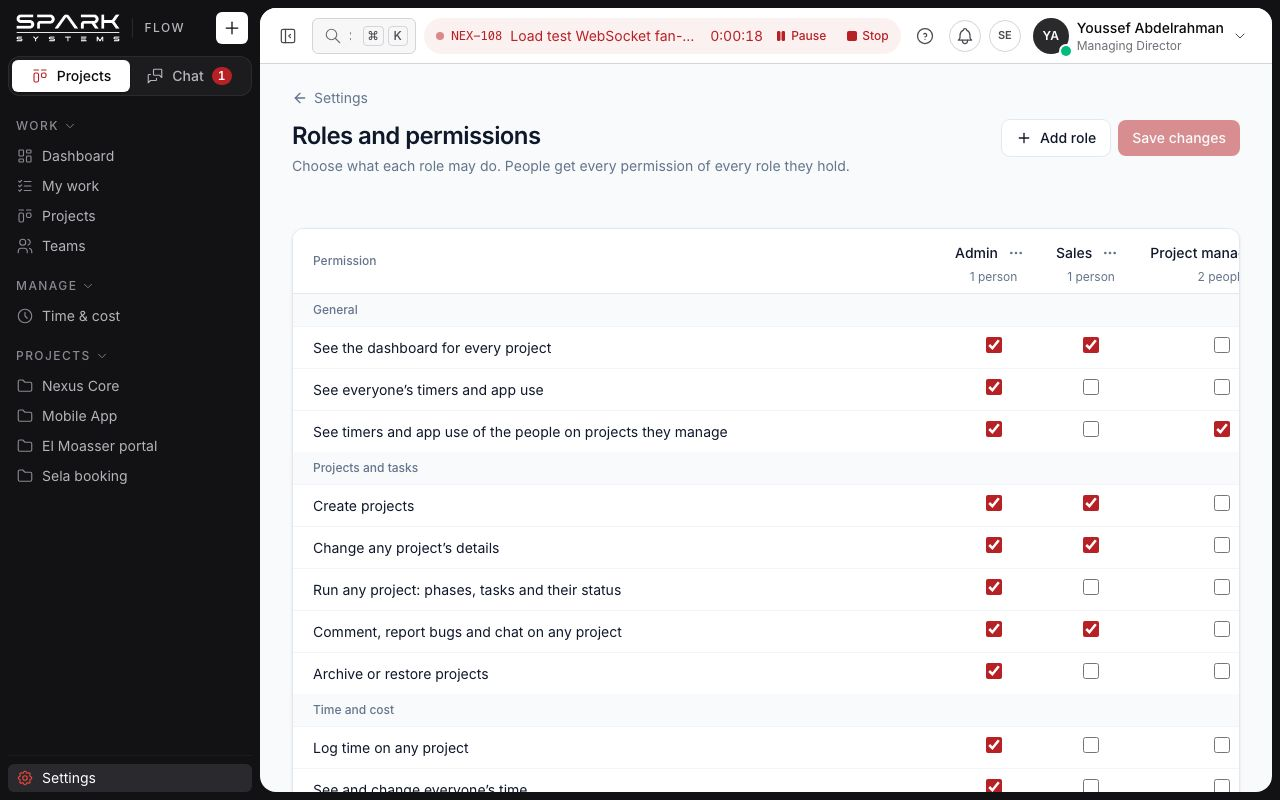
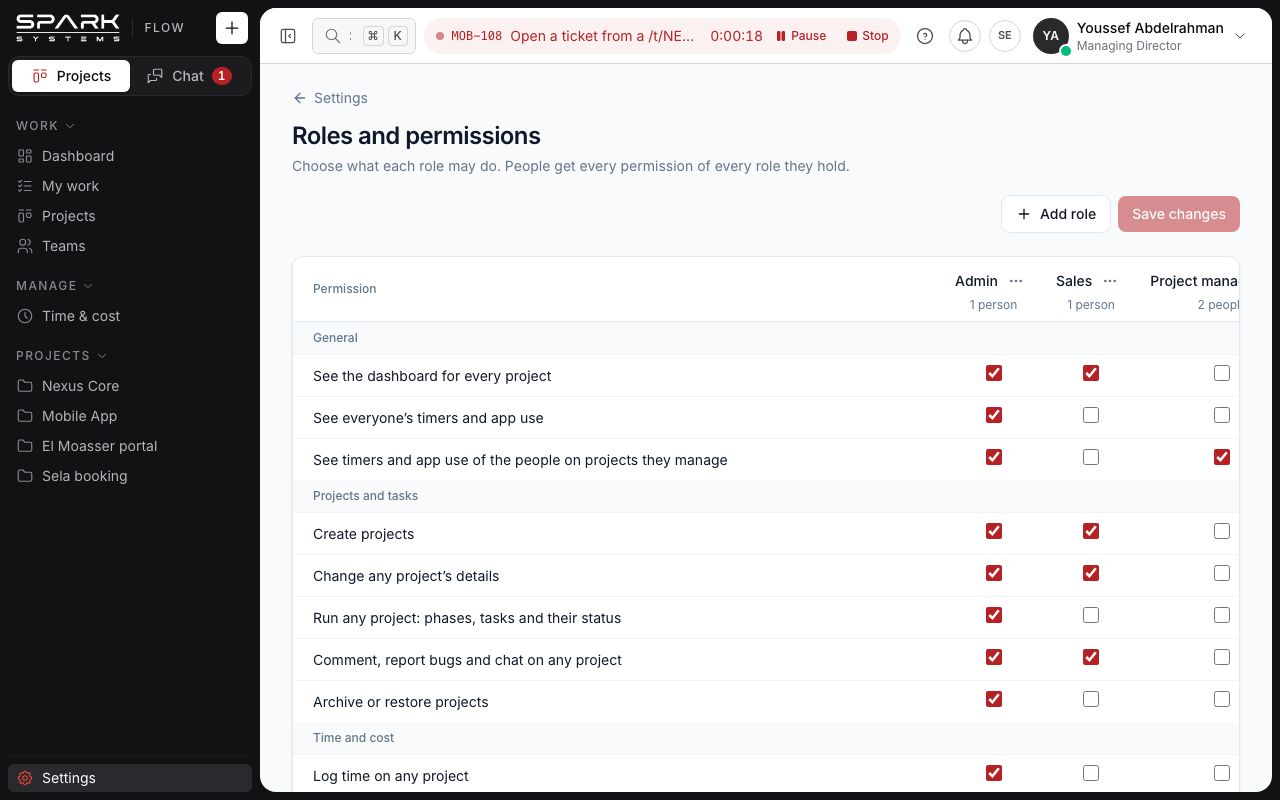
docs(ux): Phase 4 review and help pictures

diff --git a/tasks/todo.md b/tasks/todo.md
@@ -2821,7 +2821,7 @@ one red (brand-500) and one danger style, danger on every delete confirm. Plan w
   5 November"; the mode switch and "+" are ink in dark. No sideways scroll; console shows only the worktree's font 403s.
 - Order changed once (ledger): IconButton (Task 8) ran before Preferences (Task 5), which uses it.
 
-# UX Phase 4: forms, tables, dashboards and workflows — 9 Nov 2026, planned (awaiting Q1–Q5)
+# UX Phase 4: forms, tables, dashboards and workflows — 9 Nov 2026, approved (Q1–Q5 "Yes, recommended")
 
 Audit items 4.1–4.10: forms check as you fix and Enter saves; tables drop low-value columns and show when they scroll;
 the kit's list pattern (search, tiles, filters in the address, counts, empty states) on the Tasks tab, My work and
@@ -2830,18 +2830,28 @@ Time & cost on one row. Plan with decisions, diagrams and questions:
 `docs/superpowers/plans/2026-11-09-ux-phase-4-forms-tables-dashboards.md`. Branch `feat/ux-phase-4` from `origin/dev`
 (a0f0047, Phase 3 landed).
 
-- [ ] Forms check as you fix, Enter saves, errors by their field (4.4)
-- [ ] Form copy (4.9)
-- [ ] Tables fit, or show that they scroll (4.1)
-- [ ] The board shows its hidden columns (4.1)
-- [ ] Shared list blocks: search box, filter tiles, filter bar, empty state (4.2)
-- [ ] Filters on the Tasks tab (4.2)
-- [ ] Tiles and search on My work (4.2)
-- [ ] Projects list: search, kit tiles, archived error (4.2)
-- [ ] Start timer in two clicks (4.3, 4.10)
-- [ ] Loading shaped like the page (4.5)
-- [ ] The Dashboard leads (4.6)
-- [ ] Time & cost on one row (4.7)
-- [ ] Settings gaps: place, Roles bar, Rates (4.8, 4.10)
-- [ ] Project gaps: done warnings, Overview, History, Teams (4.10)
-- [ ] Phase check, help pictures, review here
+- [x] Forms check as you fix, Enter saves, errors by their field (4.4)
+- [x] Form copy (4.9)
+- [x] Tables fit, or show that they scroll (4.1)
+- [x] The board shows its hidden columns (4.1)
+- [x] Shared list blocks: search box, filter tiles, filter bar, empty state (4.2)
+- [x] Filters on the Tasks tab (4.2)
+- [x] Tiles and search on My work (4.2)
+- [x] Projects list: search, kit tiles, archived error (4.2)
+- [x] Start timer in two clicks (4.3, 4.10)
+- [x] Loading shaped like the page (4.5)
+- [x] The Dashboard leads (4.6)
+- [x] Time & cost on one row (4.7)
+- [x] Settings gaps: place, Roles bar, Rates (4.8, 4.10)
+- [x] Project gaps: done warnings, Overview, History, Teams (4.10)
+- [x] Phase check, help pictures, review here
+
+## Review — UX Phase 4
+- Gates: `tsc -b` and lint clean; tests 2,635/2,638 (unit and browser; the known `RichComposer` "unknown /word" and the
+  two worktree-only `MessageList` "Jump to latest" failures); `build:prototype` passes; 13 help pictures retaken (the
+  shots script now finds a task in Start timer).
+- Looked at in the app: Projects at 1280 fits its 946 px box with no sideways scroll (Client, Manager and Phase left
+  out); the board says "Columns 1–3 of 5" with arrows; the Tasks tab's search and filters; Start timer finds a task; My
+  work's tiles and Projects' search on a 390 px phone, light and dark; no console errors.
+- New shared pieces: `lib/useFormCheck`, `DataTable` `dropOrder`, `pages/projects/ColumnStrip`, `components/ui/{SearchBox,
+  FilterTile, FilterBar, EmptyState}`, `layout/{TaskPicker,timerTargets}`, `selectInlineClass`; rules in `CLAUDE.md`.
